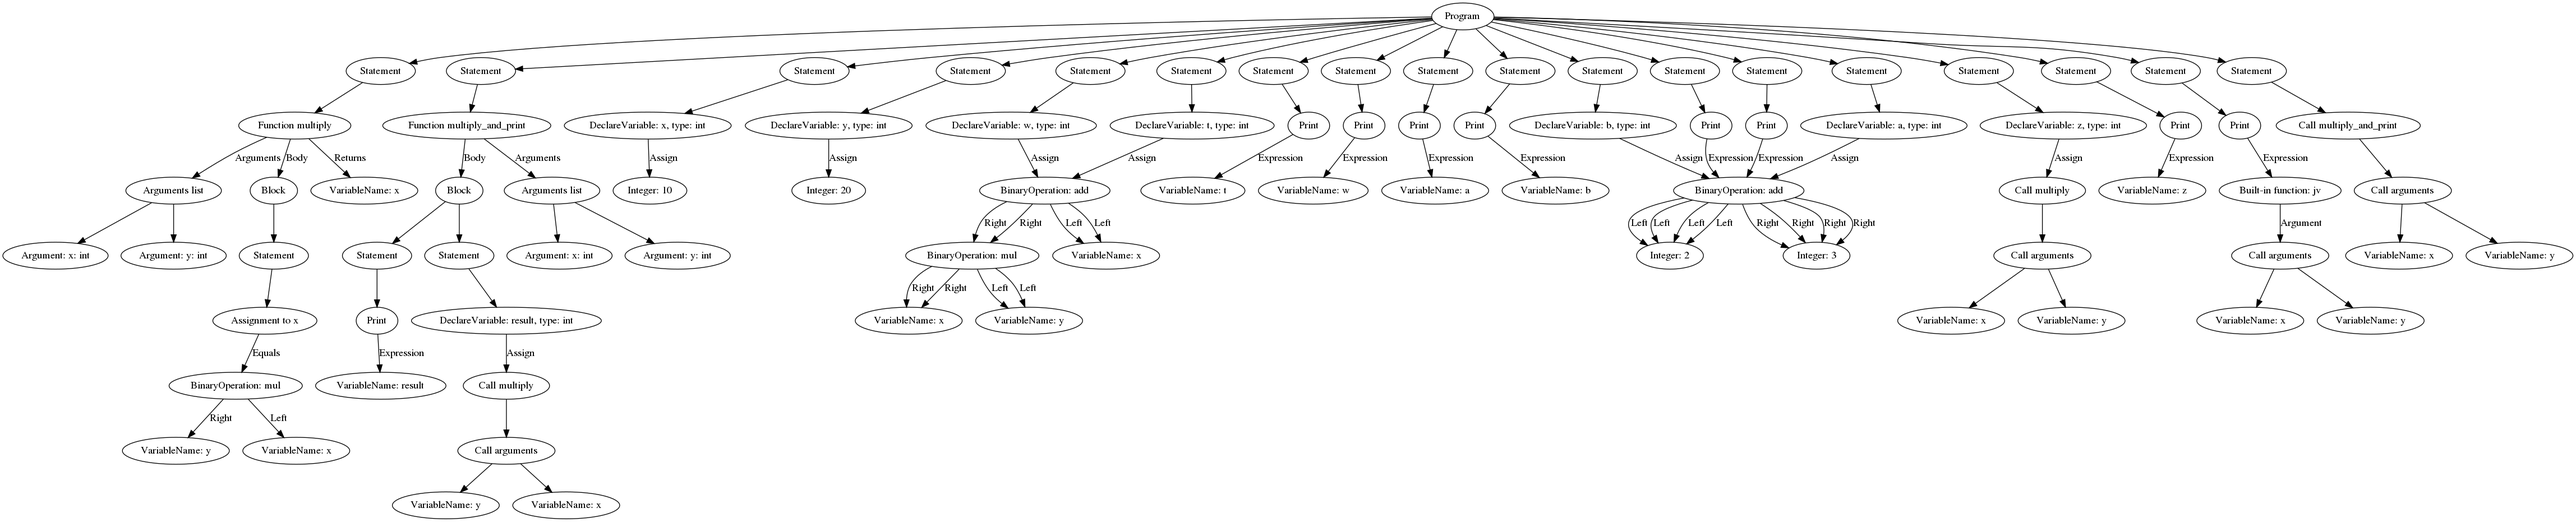
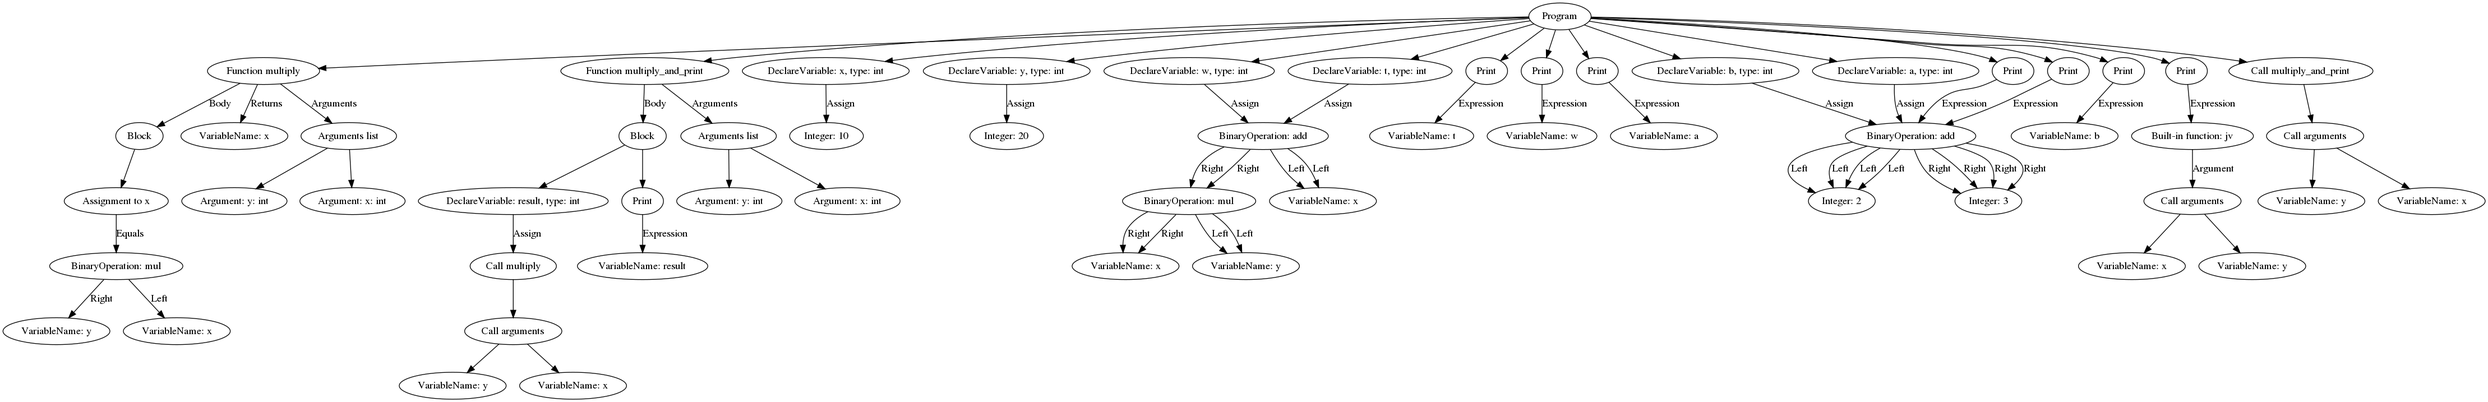
dead code elimination (unused variables and functions), deleted Statement class

diff --git a/compiler/ast.py b/compiler/ast.py
@@ -14,6 +14,20 @@ class Node(object):
     def execute(self, scope, opt):
         pass
 
+    @staticmethod
+    def remove_needless_statements(statement_list, scope):
+        needless_statements = []
+        unused_names = scope.get_unused_names()
+        unused_functions = scope.get_unused_functions()
+
+        for statement in statement_list:
+            if isinstance(statement, (Declaration, Assignment)) and statement.name in unused_names.keys():
+                needless_statements.append(statement)
+            elif isinstance(statement, CustomFunction) and statement.name in unused_functions.keys():
+                needless_statements.append(statement)
+
+        return list(filter(lambda x: x not in needless_statements, statement_list))
+
 
 class Program(Node):
     def __init__(self, statement_list):
@@ -23,20 +37,8 @@ class Program(Node):
         for statement in self._statement_list:
             statement.execute(scope, opt)
 
-
-class Statement(Node):
-    def __init__(self, statement_body):
-        self._body = statement_body
-
-    def execute(self, scope, opt):
-        result = self._body.execute(scope, opt)
-
         if opt:
-            saved_expression = scope.get_expression(self._body)
-            if saved_expression is not None:
-                self._body = saved_expression
-
-        return result
+            self._statement_list = Node.remove_needless_statements(self._statement_list, scope)
 
 
 class Block(Node):
@@ -46,6 +48,9 @@ class Block(Node):
     def execute(self, scope, opt):
         for statement in self._statement_list:
             statement.execute(scope, opt)
+
+        if opt:
+            self._statement_list = Node.remove_needless_statements(self._statement_list, scope)
 
 
 class FunctionArgumentList(Node):
@@ -80,6 +85,10 @@ class CustomFunction(Node):
 
     def execute(self, scope, opt):
         scope.declare_function(self._name, self._arg_list, self._body, self._returned_value)
+
+    @property
+    def name(self):
+        return self._name
 
 
 class Print(Node):
@@ -313,6 +322,10 @@ class Assignment(Node):
 
         scope.assign_name(self._name, executed_value)
 
+    @property
+    def name(self):
+        return self._name
+
 
 class Minus(Node):
     def __init__(self, value):
@@ -347,6 +360,10 @@ class Declaration(Node):
             scope.declare_name(self._name, self._value_type, executed_value)
         else:
             scope.declare_name(self._name, self._value_type, None)
+
+    @property
+    def name(self):
+        return self._name
 
 
 class Conversion(Node):

diff --git a/compiler/names.py b/compiler/names.py
@@ -6,6 +6,7 @@ class DeclaredName:
         self._type = value_type
         self._value = value
         self._changes = 0
+        self._used = False
 
     @property
     def type(self):
@@ -14,6 +15,13 @@ class DeclaredName:
     @property
     def value(self):
         return self._value, self._changes
+
+    @property
+    def used(self):
+        return self._used
+
+    def mark_as_used(self):
+        self._used = True
 
     @value.setter
     def value(self, value):
@@ -38,7 +46,7 @@ class NamesDict:
 
     def declare(self, name, value_type, value):
         if value is None:
-            value = self.defaults[value_type]
+            value = self.defaults[value_type.__name__]
 
         if name in self._dict:
             raise ValueError("Variable is already declared!")
@@ -66,6 +74,7 @@ class NamesDict:
         if name not in self._dict:
             raise ValueError("Variable not defined!")
 
+        self._dict[name].mark_as_used()
         return self._dict[name].value
 
     def contains(self, name):
@@ -77,6 +86,7 @@ class DeclaredFunction:
         self._arg_list = arg_list
         self._body = body
         self._returned_value = returned_value
+        self._used = False
 
     @property
     def arg_list(self):
@@ -89,6 +99,13 @@ class DeclaredFunction:
     @property
     def returned_value(self):
         return self._returned_value
+
+    @property
+    def used(self):
+        return self._used
+
+    def mark_as_used(self):
+        self._used = True
 
 
 class FunctionsDict:
@@ -110,6 +127,7 @@ class FunctionsDict:
         if name not in self._dict:
             raise ValueError("Function not declared")
 
+        self._dict[name].mark_as_used()
         return self._dict[name]
 
     def contains(self, name):
@@ -193,6 +211,10 @@ class Scope:
 
         raise ValueError("Function {} not declared in any scope".format(name))
 
+    def get_unused_functions(self):
+        function_scope = self._functions[-1].dict
+        return {k: v for k, v in function_scope.items() if not v.used}
+
     def declare_name(self, name, value_type, value):
         self._names[-1].declare(name, value_type, value)
 
@@ -210,6 +232,10 @@ class Scope:
     def read_name(self, name):
         index = self.get_dict_index_for_name(name)
         return self._names[index].read(name)
+
+    def get_unused_names(self):
+        name_scope = self._names[-1].dict
+        return {k: v for k, v in name_scope.items() if not v.used}
 
     def add_expression(self, expression):
         self._expressions.add(expression)

diff --git a/compiler/tree_printer.py b/compiler/tree_printer.py
@@ -21,12 +21,6 @@ class TreePrinter:
             graph.edge(self.id, statement.print_tree(graph))
         return self.id
 
-    @add_to_class(ast.Statement)
-    def print_tree(self, graph):
-        graph.node(self.id, "Statement")
-        graph.edge(self.id, self._body.print_tree(graph))
-        return self.id
-
     @add_to_class(ast.Block)
     def print_tree(self, graph):
         graph.node(self.id, "Block")

diff --git a/compiler/parser.py b/compiler/parser.py
@@ -89,7 +89,7 @@ class Parser:
                      | customfunc
                      | procedure
                      | print"""
-        p[0] = ast.Statement(p[1])
+        p[0] = p[1]
 
     def p_block(self, p):
         """block : '{' statement_set '}'"""
